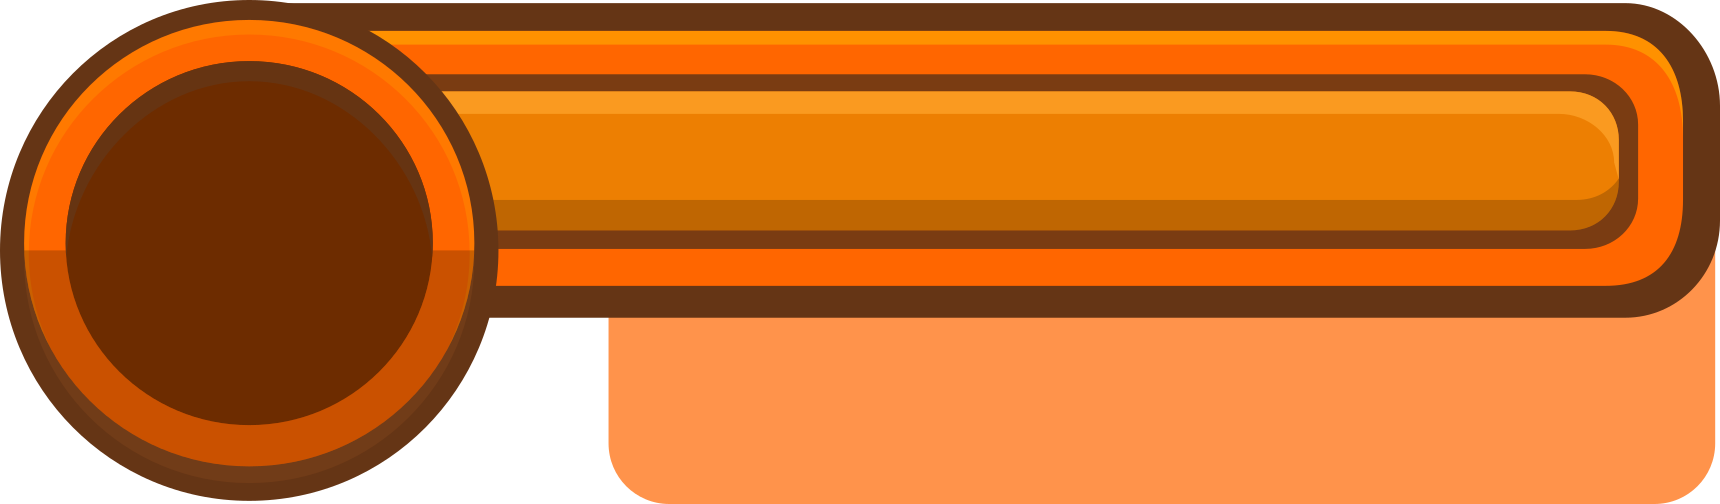
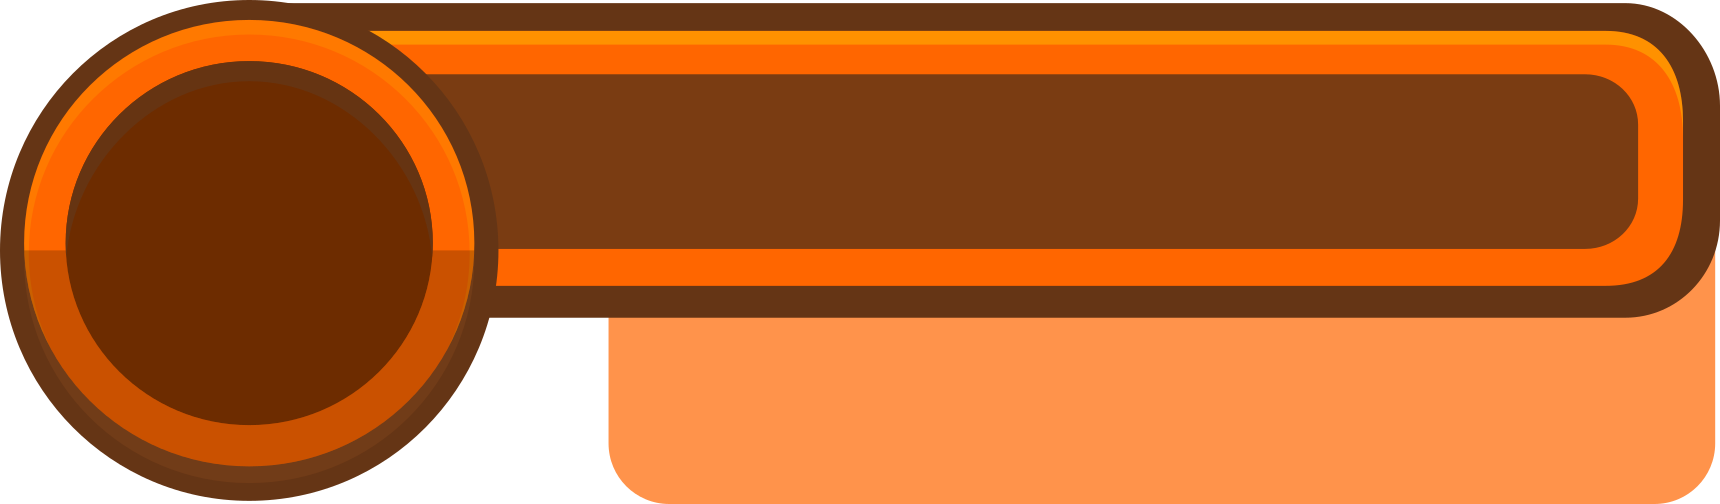
gui fix

Changed region(s): [[0.2465, 0.1786, 0.9552, 0.4762]]

diff --git a/src/shared/guiCreator.ts b/src/shared/guiCreator.ts
@@ -1,4 +1,4 @@
-import { Color } from "./enums";
+import { Color } from './enums';
 
 export class GuiCreator {
   item;
@@ -48,13 +48,13 @@ export class GuiCreator {
     }
 
     this.item.statusBar = this.item.physics.add
-      .staticSprite(450, 30, 'statusBar')
+      .staticSprite(450, -20, 'statusBar')
       .setOrigin(0.5, 0)
-      .setDisplaySize(600, 200)
+      .setDisplaySize(1200, 65)
       .setDepth(5)
       .setAlpha(0.9)
       .setScrollFactor(0)
-      .setVisible(false);
+      .setVisible(true);
 
     this.item.eatIcon = this.item.physics.add
       .staticSprite(this.item.panel.x + 340, this.item.panel.y - 60, 'eatIcon')
@@ -98,10 +98,41 @@ export class GuiCreator {
       .setScale(0.4)
       .setScrollFactor(0);
 
-    this.item.nameTitle = this.item.add.text(this.item.nameBox.x -240, this.item.nameBox.y -60, this.item.catState.name, {
-      fontFamily: 'Indie Flower',
-      fontSize: '65px',
-      fill: Color.BLUE,
-    }).setScrollFactor(0).setOrigin(0,0);
+    this.item.nameTitle = this.item.add
+      .text(this.item.nameBox.x - 240, this.item.nameBox.y - 60, this.item.catState.name, {
+        fontFamily: 'Indie Flower',
+        fontSize: '65px',
+        fill: Color.BLUE,
+      })
+      .setScrollFactor(0)
+      .setOrigin(0, 0);
+
+    this.item.health = this.item.physics.add
+      .staticSprite(20, 20, 'health')
+      .setOrigin(0, 0)
+      .setScale(0.12)
+      .setDepth(10)
+      .setScrollFactor(0);
+
+    this.item.eat = this.item.physics.add
+      .staticSprite(240, 20, 'eat')
+      .setOrigin(0, 0)
+      .setScale(0.12)
+      .setDepth(10)
+      .setScrollFactor(0);
+
+    this.item.water = this.item.physics.add
+      .staticSprite(460, 20, 'water')
+      .setOrigin(0, 0)
+      .setScale(0.12)
+      .setDepth(10)
+      .setScrollFactor(0);
+
+    this.item.fun = this.item.physics.add
+      .staticSprite(680, 20, 'fun')
+      .setOrigin(0, 0)
+      .setScale(0.12)
+      .setDepth(10)
+      .setScrollFactor(0);
   }
 }

diff --git a/src/scenes/room-scene.ts b/src/scenes/room-scene.ts
@@ -161,34 +161,6 @@ export class RoomScene extends Phaser.Scene {
 
     this.guiCreator.createGui();
 
-    this.health = this.physics.add
-      .staticSprite(20, 40, 'health')
-      .setOrigin(0, 0)
-      .setScale(0.12)
-      .setDepth(10)
-      .setScrollFactor(0);
-
-    this.eat = this.physics.add
-      .staticSprite(240, 40, 'eat')
-      .setOrigin(0, 0)
-      .setScale(0.12)
-      .setDepth(10)
-      .setScrollFactor(0);
-
-    this.water = this.physics.add
-      .staticSprite(460, 40, 'water')
-      .setOrigin(0, 0)
-      .setScale(0.12)
-      .setDepth(10)
-      .setScrollFactor(0);
-
-    this.fun = this.physics.add
-      .staticSprite(680, 40, 'fun')
-      .setOrigin(0, 0)
-      .setScale(0.12)
-      .setDepth(10)
-      .setScrollFactor(0);
-
     this.physics.add.collider(this.floor, [this.cat, this.ball, this.shit]);
     this.physics.add.collider(this.cat, [this.ball]);
     this.physics.add.collider(this.ball, [this.cat]);
